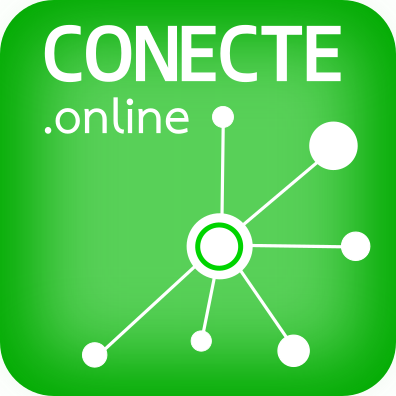
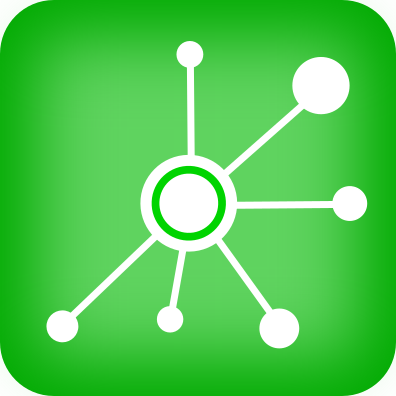
Altera o ícone para predominancia verde

diff --git a/app/settings.py b/app/settings.py
@@ -146,10 +146,10 @@ PWA_SERVICE_WORKER_PATH = os.path.join(BASE_DIR, 'static/assets/js', 'servicewor
 
 
 
-PWA_APP_NAME = 'As melhores ofertas bem perto de você!'
+PWA_APP_NAME = 'Conecte'
 PWA_APP_DESCRIPTION = 'conecte.online'
 PWA_APP_THEME_COLOR = '#f9f9f9'
-PWA_APP_BACKGROUND_COLOR = '#00aa00ff'
+PWA_APP_BACKGROUND_COLOR = '#00aa00'
 PWA_APP_DISPLAY = 'standalone'
 PWA_APP_SCOPE = '/'
 PWA_APP_ORIENTATION = 'any'
